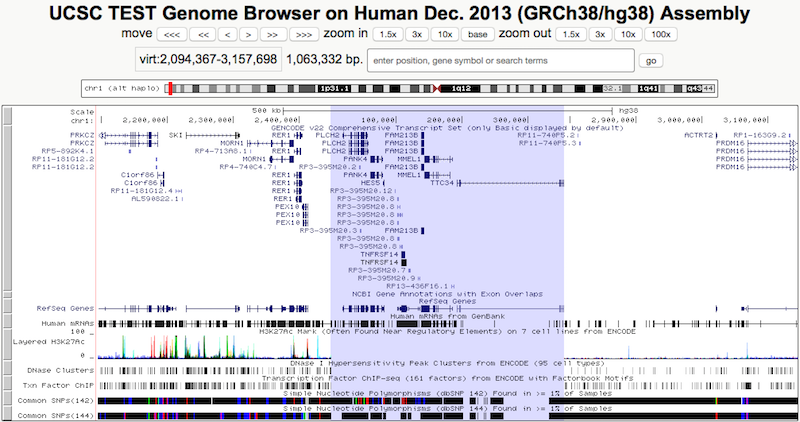
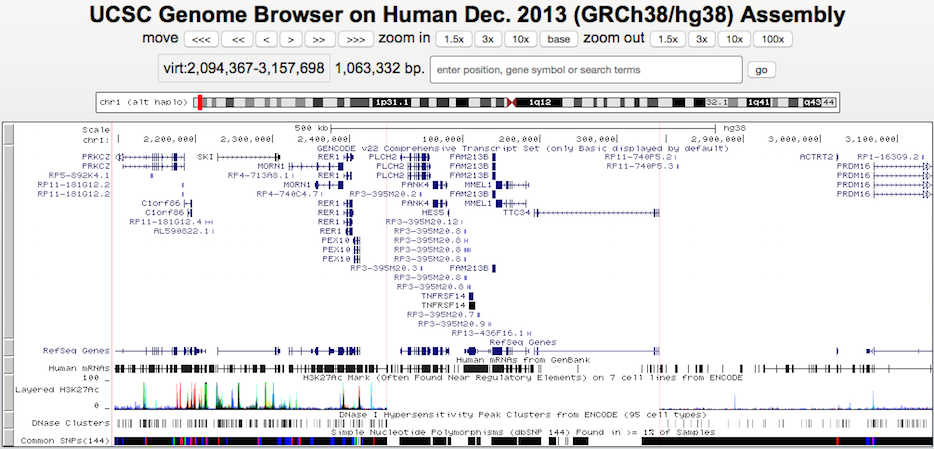
Replacing image with non highlight and fix of doc suggestions, refs #16565

diff --git a/src/hg/htdocs/goldenPath/help/multiRegionHelp.html b/src/hg/htdocs/goldenPath/help/multiRegionHelp.html
@@ -59,28 +59,28 @@
 	<h1>Introduction</h1>
 	<div class="sectionContent">
 	   <p>
-              The multi-region display allows users the ability to &quot;slice&quot; up
-              their normal track viewing experience into a variety of different modes:
-              exon, gene, or user defined BED coordinates, and visualize 
-              the track annotations only in those regions, effectively removing
-              the intergenic, intron or otherwise unwanted regions from the viewing window.
+           The multi-region display allows users the ability to &quot;slice&quot; up
+           their normal track viewing experience into a variety of different modes:
+           exon, gene, or user defined BED coordinates, and visualize 
+           the track annotations only in those regions, effectively removing
+           the intergenic, intron or otherwise unwanted regions from the viewing window.
         
            <p>
-              In addition, for the human assemblies hg17, hg18, hg19 and hg38, the multi-region view
-              also supports embedding a haplotype chromosome on top of it's
-              reference sequence in order to visualize the differences between the haplotype
-              sequence and the reference sequence.
+           In addition, for the human assemblies hg17, hg18, hg19 and hg38, the multi-region view
+           also supports &quot;replacing&quot; a section of the reference genome with an alternate haplotype 
+           chromosome, to see what annotations are upstream and downstream of the haplotype
+           sequence and how the haplotype fits into the general structure of the chromosome. 
            
            <p>
-             Using the multi-region display, one can:<br>
-             <ul>
-                <li>Show all the SNP's that are within exons using the exon only view. 
-                <li>Show only the genes on a chromosome with the gene only view.
-                <li>Display the same chromosomal position on either side of a gene in order 
-                    to model a repeat region using a BED file with custom regions.
-                <li>See how an alternate haplotype fits onto it's chromosome with the 
-                    alternate haplotype view.
-             </ul>
+           Using the multi-region display, one can:<br>
+              <ul>
+                 <li>Show all the SNP's that are within exons using the exon only view. 
+                 <li>Show only the genes on a chromosome with the gene only view.
+                 <li>Display the same chromosomal position on either side of a gene in order 
+                     to model a repeat region using a BED file with custom regions.
+                 <li>See how an alternate haplotype fits onto it's chromosome with the 
+                     alternate haplotype view.
+              </ul>
         
 	</div><!-- .sectionContent --> 
 </div><!-- .section -->
@@ -90,7 +90,7 @@
 	<h1>Getting Started with the multi-region view</h1>
 	<div class="sectionContent">
 	<p>
-        Use the following instructions to display mutliple regions in the genome browser.
+        Use the following instructions to display multiple regions in the genome browser.
         
 	<p>
 	<b>Step 1. Pick a genome assembly and region</b><br>
@@ -141,7 +141,7 @@
            </ul>
         <img style="margin: auto; border: 1px solid black; display: block;"
              src="../../images/MultiRegionMouseHighlighted.png">
-        <p style="text-align: center">An example <b>exon only</b> view.
+        <p style="text-align: center">An example <b>exon only</b> view with highlight alternating regions turned on.
         <p>
         After entering multi-region mode, the usual browser display configurations will still 
         work, such as zooming in and out, reversing and resizing the view, highlighting and 
@@ -194,21 +194,23 @@
         <a href="./trackDb/trackDbDoc.html#superTrack">super track</a> 
         or contains other transcripts, only the longest exon will be used to determine
         slicing, regardless of whether or not they are in the same transcript. See 
-        <a href="#Example1">Example 1</a> for more infromation. 
+        <a href="#Example1">Example 1</a> for more information. 
         
         <a name="GeneOnly"></a>
         <p>
         <b>Gene Only Mode</b><br>
-        The gene only view is similiar to the exon only view, however it removes all 
+        The gene only view is similar to the exon only view, however it removes all 
         intergenic bases in a given range, thus only displaying annotations that fall within the 
         coordinates of a gene.  
  
         <p>
-        As with exon only mode, gene only mode uses the padding field to set the number
-        of intergenic bases to buffer each gene. On tightly packed chromosomes or regions
-        where there is little intergenic space, be careful the padding is not set too high,
-        or multiple genes may display as a single gene, since overlapping transcripts are 
-        considered as one region.
+        As with exon only mode, gene only mode uses the padding field to set the number of
+        intergenic bases to buffer each gene. Because genes and alternate transcripts often
+        overlap by a few bases, the windows created by the gene only (and exon only) mode may merge
+        together. Reducing the number of padding bases may increase the number of alternate
+        regions, by allowing less intergenic space between genes, however this overlap is a common
+        feature for most of our gene sets, and should be no cause for concern.
+        
  
         <p>
         For an example of how both overlapping transcripts and intergenic padding affects
@@ -236,16 +238,22 @@
            <ul style="list-style:none;">
               <li>The database comment ensures that if this BED file is loaded on a database other
                   than the one specified, the custom regions mode will not work.
-              <li>shortDesc specifies the content in the parentheses here:
-                  "customUrl" becomes your comment.
-              <li>The padding field changes the padding similiar to exon and gene only mode's
+              <li>The shortDesc field allows for an optional description of the custom region next
+                  to chromosome ideogram.
+              <!-- padding throwing debug error right now, uncomment when fixed
+              <li>The padding field changes the padding similar to exon and gene only mode's
                   padding field.
+              -->
            </ul>
         </td></tr>
         </table>
         <br>
         To use one of these comments, just include the comment at the top of your BED file, 
         preceded by a &quot;#&quot;, like so:<br>
+        <!-- add in
+          #padding 6
+             to this example when fixed.
+        --> 
         <pre>
       #database hg38
       #shortDesc Example of a short description
@@ -259,7 +267,7 @@
         only information from BED 3 or BED 12 files are relevant to the display. Be careful
         about the order of the regions specified, as the &quot;slices&quot; displayed are in
         order of the BED file, and not in order of their genomic position. Check out 
-        <a class="toc" href="#Example3">Example 3</a> for an illustrative example of how 
+        <a href="#Example3">Example 3</a> for an illustrative example of how 
         important this ordering is.
 
         <p>
@@ -284,7 +292,7 @@
         If the term is not found at all in our databases, then the normal search error message will 
         trigger.
         <p>
-        As mentioned in the <a class="toc" href="#GetStarted">Getting Started</a> section, 
+        As mentioned in the <a href="#GetStarted">Getting Started</a> section, 
         searching, scrolling and zooming while viewing regions from a custom BED URL may be
         a little counterintuitive. While viewing multiple custom regions, your view is 
         limited to only the regions you have specified, so although you can still zoom in
@@ -299,13 +307,16 @@
         <p>
         The human hg38, hg19, hg18 and hg17 assemblies all possess an extra feature while
         using the multi-region view: showing one alternative haplotype on it's chromosome.
+        
         <p>
         <b>#### How to structure the bigZips link to make this text work? ####</b><br>
         For a list of possible haplotypes, check the goldenPath/hg$/bigZips/hg$.chrom.sizes file,
         where hg$ is one of either hg38, hg19, hg18 or hg17. Any haplotype of the form 
         <em>chr_name_alt</em> can be placed on it's chromosome, unlike the random and unplaced 
         sequences, which are currently not supported by the multi-region view.
-        
+        <!--
+        Note about link to haplotype view from Alt Map... track should go here once the bug is fixed.
+        -->
         <p>
         For an example of how what the haplotype mode looks like in the browser, see 
         <a href="#Example5">example 5</a> below.
@@ -344,7 +355,7 @@
 
         <p>
         Even though many genes are present on this chromosome, they are almost all overlapping
-        with each other, preventing the gene only view from definining separate regions. 
+        with each other, preventing the gene only view from defining separate regions. 
         
         <p>
         Now compare to the hg38 mitochondrial chromosome with padding set to 0: 
@@ -355,7 +366,7 @@
         
         <p>
         With more alternating regions, we can see that not all the genes overlapped with each
-        other, they simply had no intergenic space betweem them with which to draw slices.
+        other, they simply had no intergenic space between them with which to draw slices.
 
         <p>
         <a name="Example3"></a>
@@ -396,12 +407,12 @@
              src="../../images/MultiRegionBED12Example.png">
         <p>
         The multi-region display utilizes the data in the blockStarts and blockSizes fields of 
-        the BED file in order to draw it's regions, allowing for even more customization of 
+        the BED file in order to draw its regions, allowing for even more customization of 
         the genome browser display. 
         
         <p>
         <a name="Example5"></a>
-        <b>Haplotyple example</b><br>
+        <b>Haplotype example</b><br>
         
         <p>
         This example shows how the human hg38 haplotype chr1_KI270762v1_alt fits onto chromosome 1.
@@ -410,81 +421,10 @@
              src="../../images/MultiRegionHaplotypeView.png">
         
         <p>
-        Not how annotations do not extend into or out of the haplotype region, since haplotypes 
+        Note how annotations do not extend into or out of the haplotype region, since haplotypes 
         are annotated separately from regular chromosomes. 
 
 	</div><!-- .sectionContent --> 
-</div><!-- .section -->
-
-<!--start removed sections
-<div class="section">
-<h1>Display a Custom Region with a BED File</h1>
-	<div class="sectionContent">
-	<p>
-        One can now display multiple regions specified via 
-        <a href="http://genome.ucsc.edu/FAQ/FAQformat.html#format1">BED file</a> in 
-        the Genome Browser display with the multi-region tool. These regions may be on one 
-        chromosome or across multiple chromosomes.
-
-        <p>
-        To display multiple custom regions in the browser, click 
-        <button type="button">multi-region</button> while on the track display
-        page to bring up the multi-region configuration window. Select 
-        <b>Custom regions from BED URL:</b> and paste in the URL to your BED
-        file, then click <button type="button">submit</button>. 
-
-        <p>
-        The browser will now display the region(s) you have specified as &quot;slices&quot;,
-        <em>with the regions displayed in the order of the BED file</em>. Note that you may 
-        specify the same region multiple times in the BED file and it will be displayed
-        as a separate region each time, making the modeling and comparison of the same region
-        against many regions possible in one browser display.
- 
-        <p><b>Displaying regions from the same chromsome</b></br>
-        The following BED12 <a href="../../~chmalee/bed12formultregion.txt">example</a> specifies
-        a 3 block region on chromsome 22 between bases 1000 and 5000, and a second 3 block 
-        region between bases 2000 and 6000:<br>
-        <pre>
-     chr22 1000 5000 cloneA 960 + 1000 5000 0 3 567,488,900, 0,2512,3100
-     chr22 2000 6000 cloneB 900 + 2000 6000 0 3 433,399,800, 0,2601,3200
-        </pre>
-        <p>
-        When loaded as a custom track, we can see that there are overlapping regions, as well
-        as a block between positions 2001 and 2433.
-        <img style="border: 1px solid black; display: block;"
-             src="../../images/hgIntegratorHgTracksExample.png">
-        <p>
-        Now examine this region under the multi-region view, with the above BED12 positions
-        loaded as a custom BED <a href="../../~chmalee/bed12formultregion.txt">URL</a>.
-        <img style="border: 1px solid black; display: block;"
-             src="../../images/hgIntegratorHgTracksExample.png">
-
-        <p>
-        The positions display in the order specified by the BED file, not by genomic position.
-        Notice how the <em># need to update later #</em> block is in the fourth region, not the second
-        region, as in the custom track example.  
-        <p>
-        For an example BED12 URL, click <a href="../../~chmalee/bed12formultregion.txt">here</a>.
-        
-        <p><b>Displaying regions from multiple chromsomes</b></br>
-        Multi-region view also supports BED files specifying regions from across multiple
-        chromosomes, allowing  display of annotations from different genomic regions in the same
-        browser window. The following <a href="../../~chmalee/multRegion2.txt">file</a> 
-        specifies regions from across three different chromosomes:
-        
-           <pre>
-     chr9 133255000 133276861
-     chr21 31659622 31668931
-     chr13 69700594 69708459
-           </pre>
-        
-        Again the multi-region view will display the &quot;slices&quot; according to the order
-        specified in the BED file, and allows the same region to be displayed twice.
-
-        <ul><img style="border: 1px solid black; display: block;"
-             src="">
-
-	</div>< .sectionContent --> 
 </div><!-- .section -->
 
 </body>
